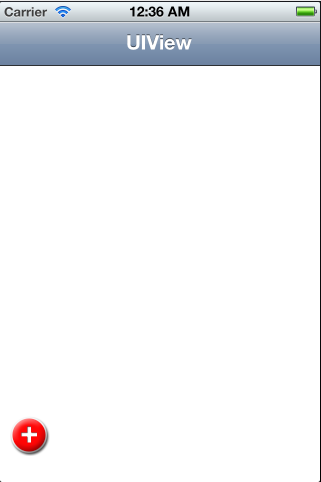
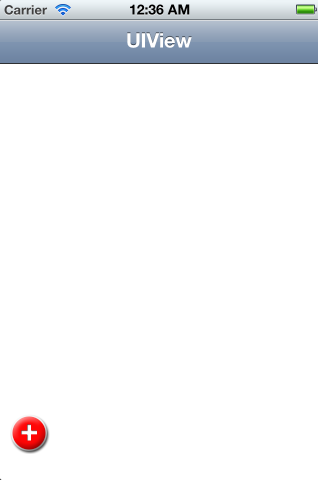
updated image and readme

Changed region(s): [[0.0, 0.0, 1.0, 1.0], [0.0566, 0.875, 0.1415, 0.9062]]

diff --git a/README.md b/README.md
@@ -5,9 +5,9 @@ Expanding Button Bar is a simple iOS widget created by Ryan Nystrom. The widget 
 
 Inspiration for this button bar came from the app Path in which they practically removed the need for a UITabBar by adding a button in the bottom left. The goal with this widget is to replicate that functionality and give you the option of using buttons that animate in and out to reclaim some much needed UI space.
 
-![ Main button ]( https://github.com/rnystrom/ExpandingButtonBar/raw/master/images/base.png )
-![ Expanded main button ]( https://github.com/rnystrom/ExpandingButtonBar/raw/master/images/expanded.png )
-![ Tableview button ](https://github.com/rnystrom/ExpandingButtonBar/raw/master/images/table.png)
+<img src="https://github.com/rnystrom/ExpandingButtonBar/raw/master/images/base.png" width="200" />
+<img src="https://github.com/rnystrom/ExpandingButtonBar/raw/master/images/expanded.png" width="200" />
+<img src="https://github.com/rnystrom/ExpandingButtonBar/raw/master/images/table.png" width="200" />
 
 ### Installation
 
